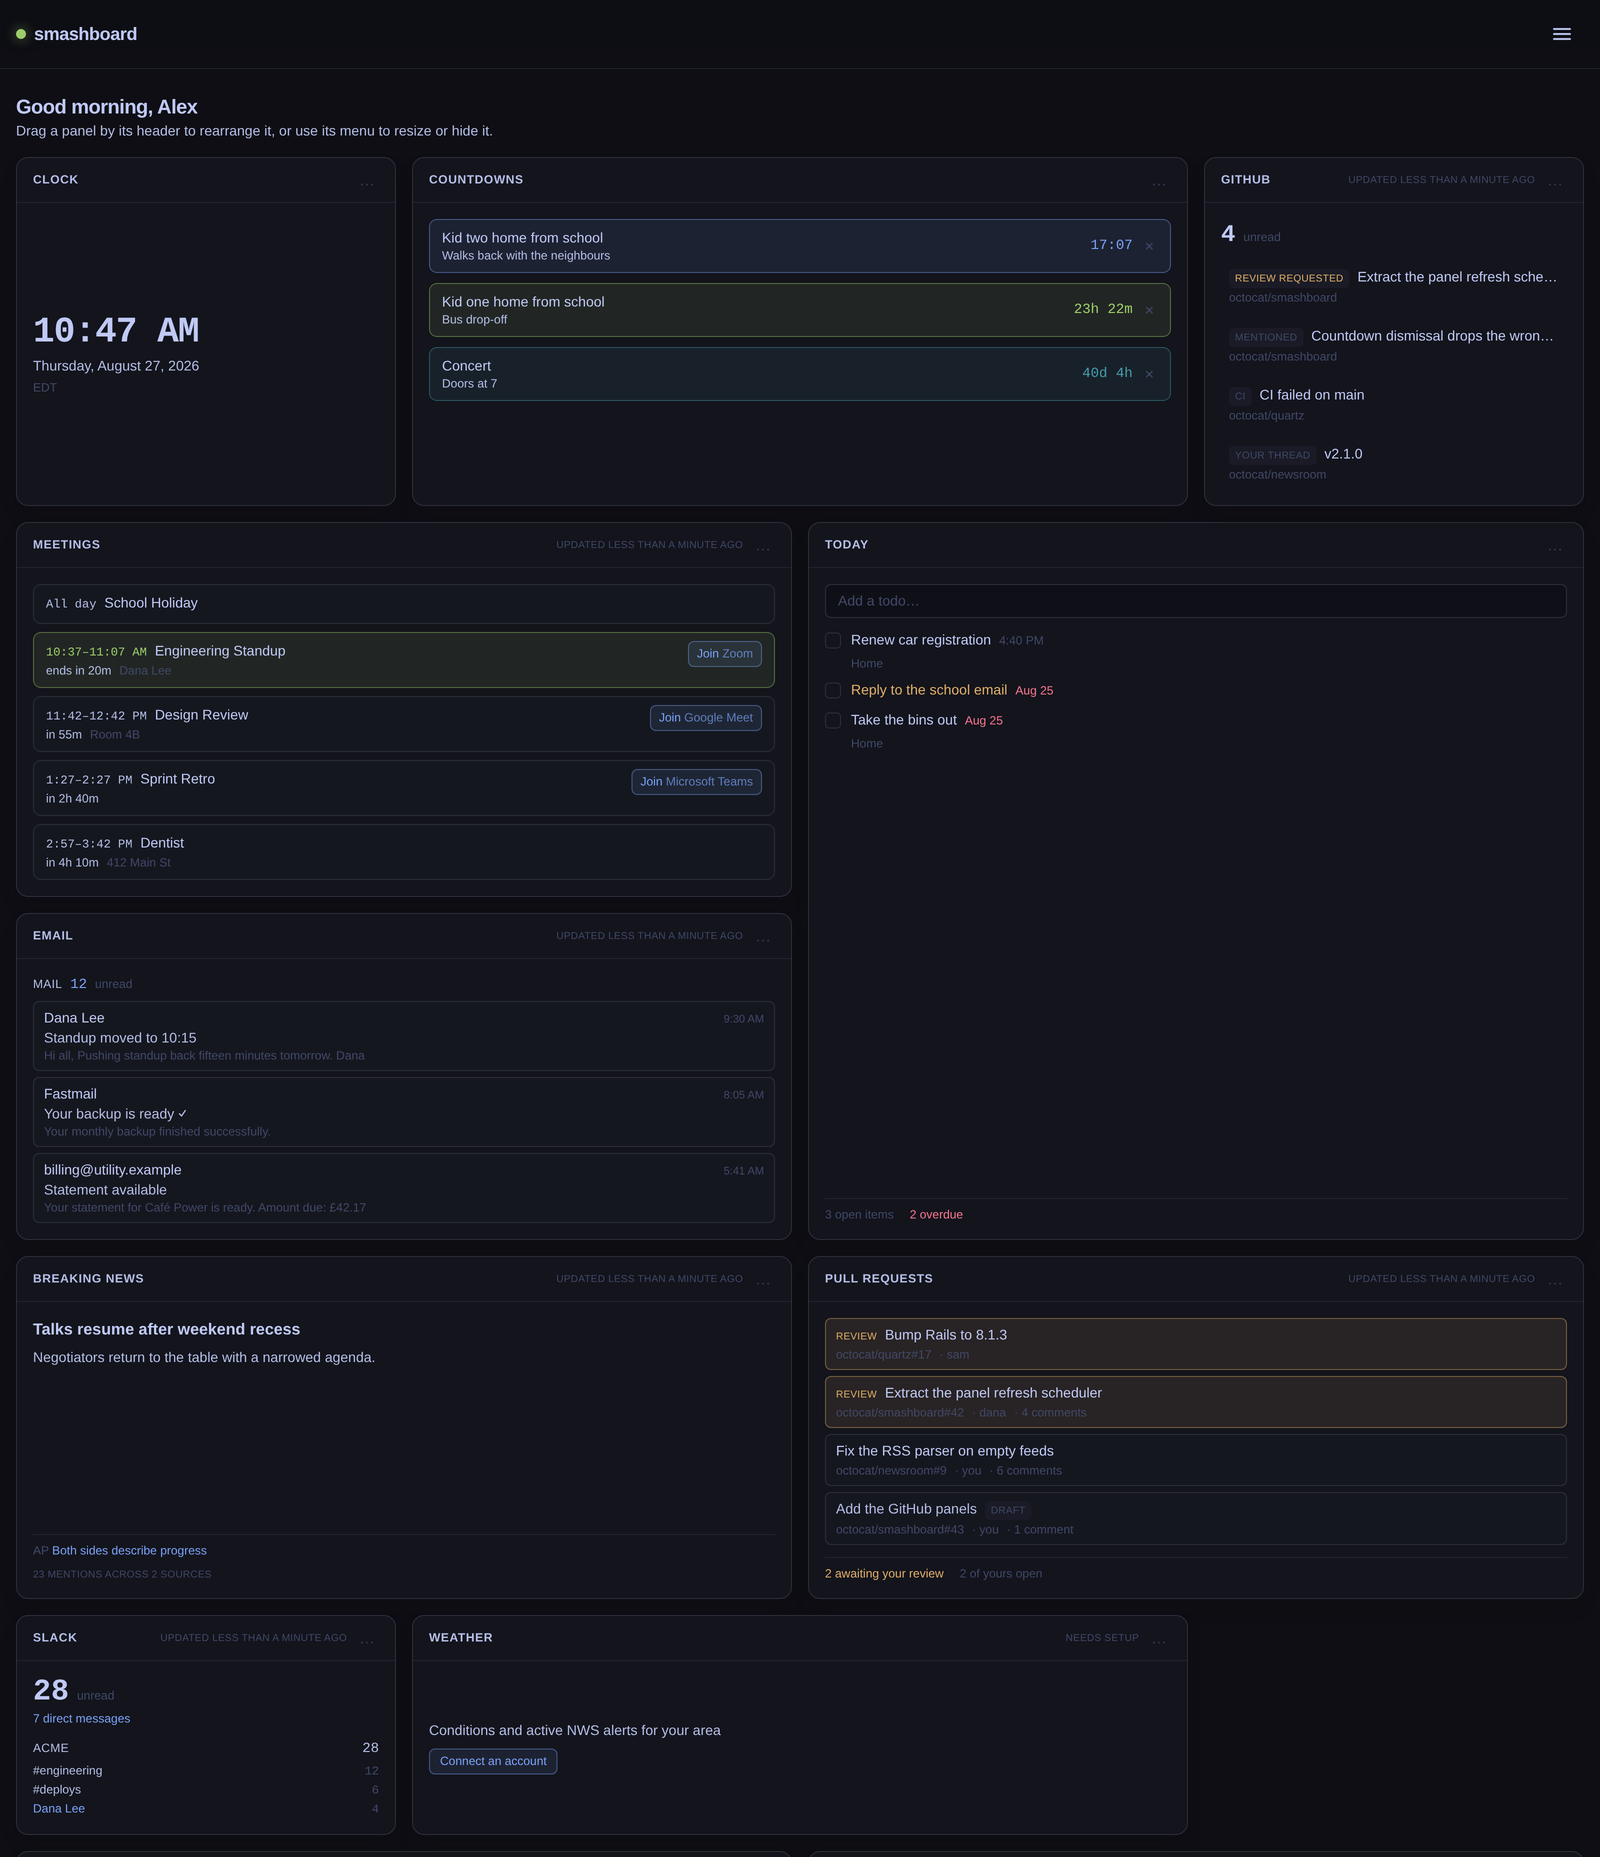
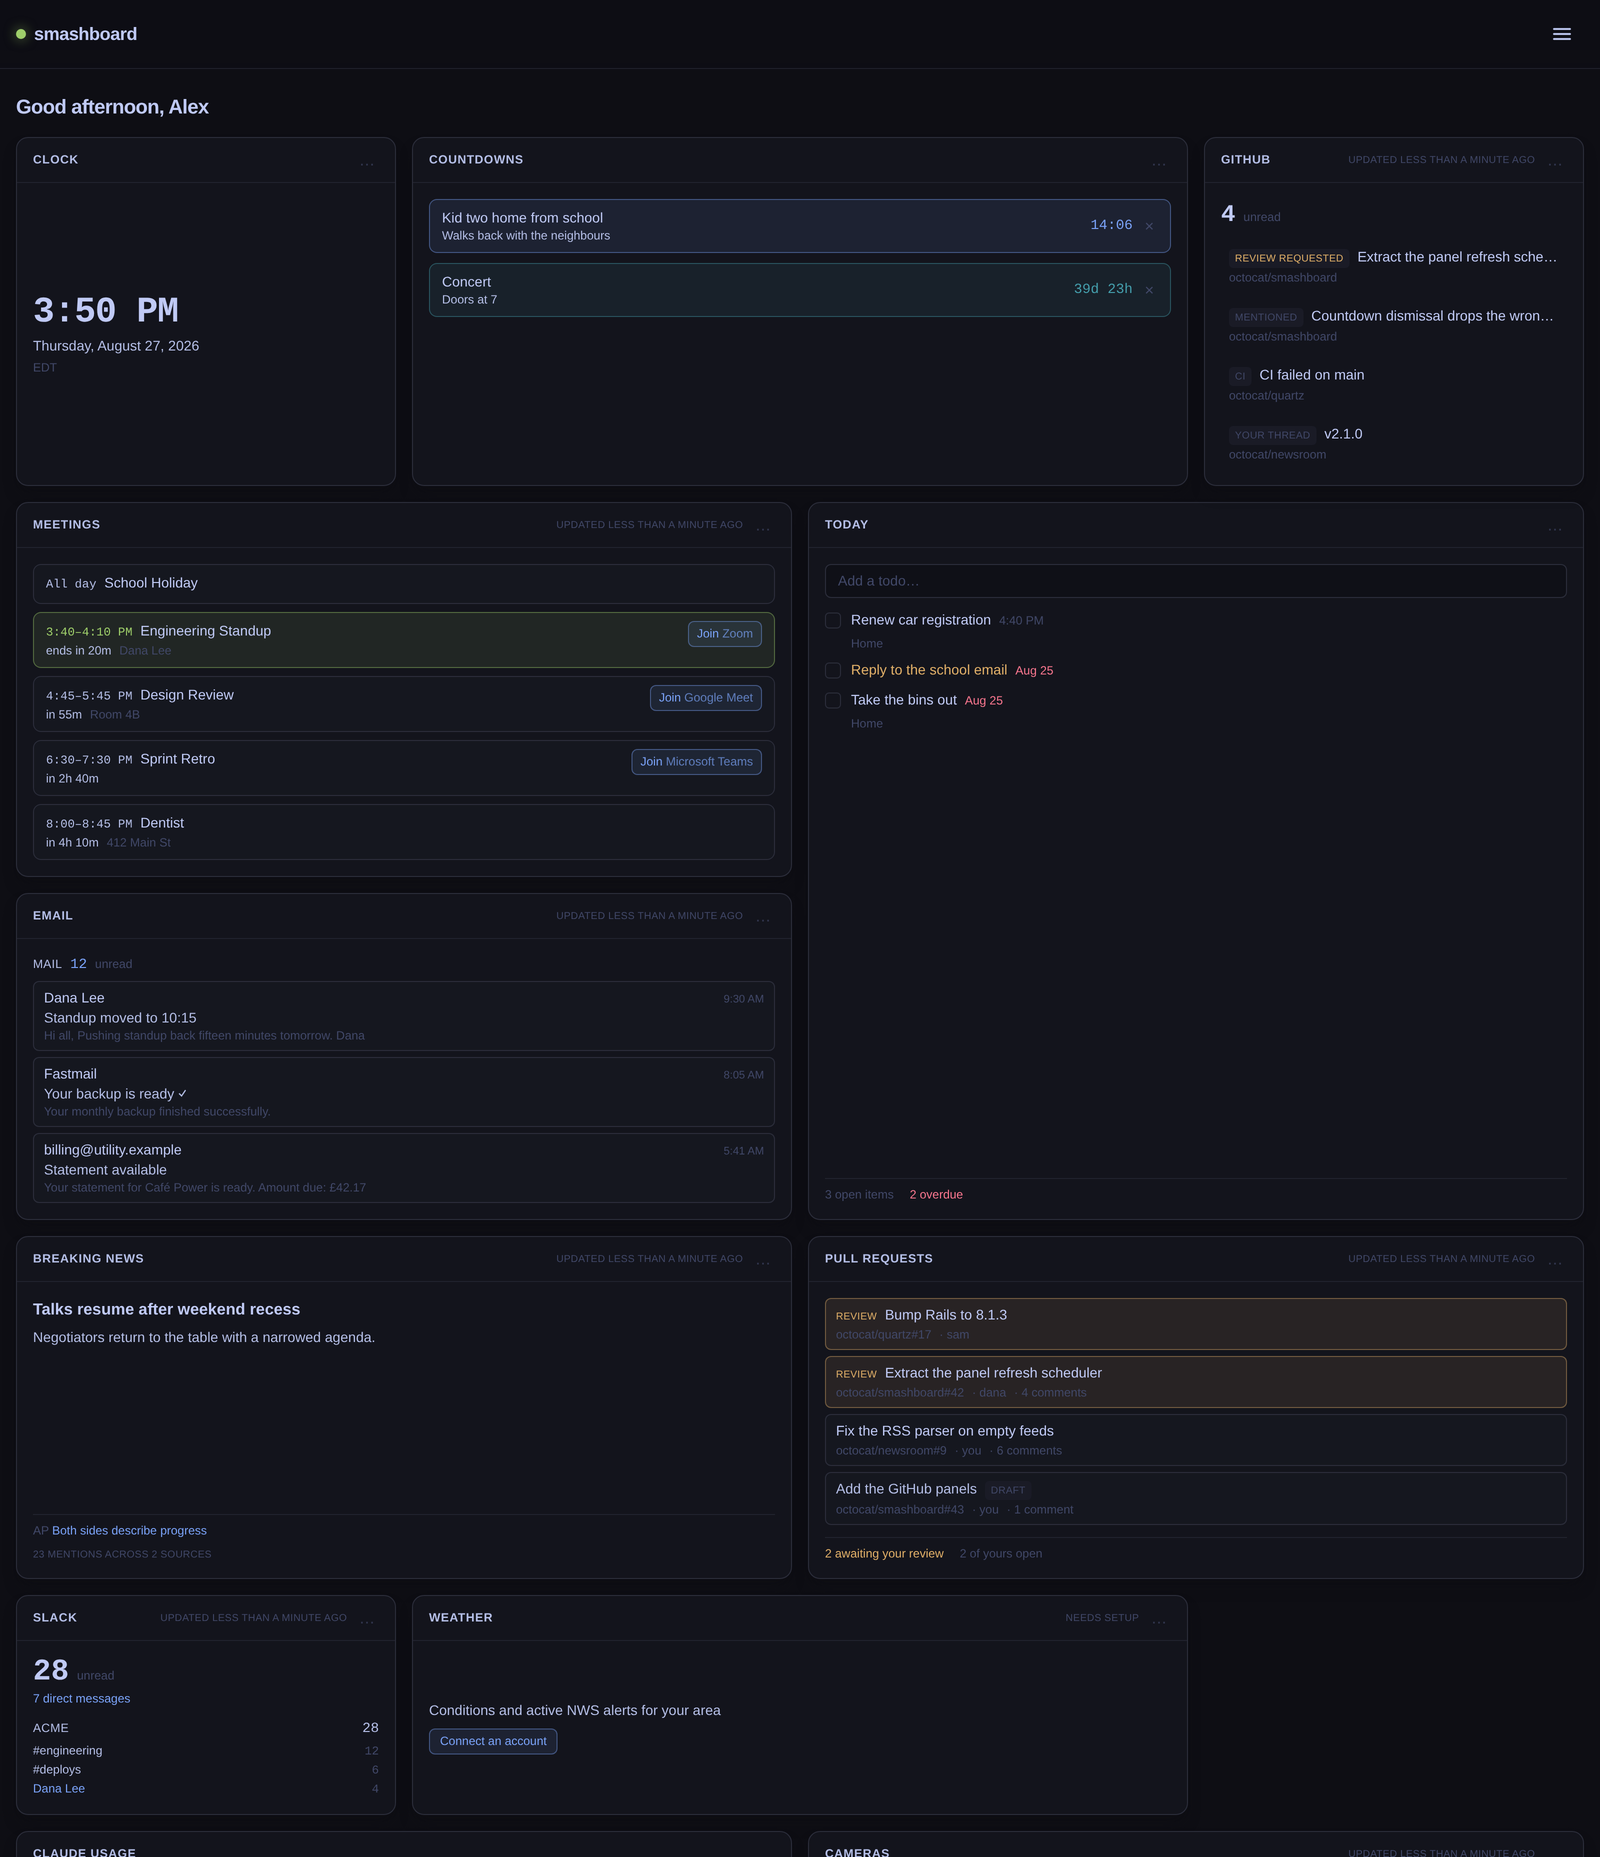
Refresh the hero screenshot, and make the Slack stub healthy by default
The screenshot predated the header subtitle being removed and the same-day rule
for recurring countdowns, so it advertised behaviour the app no longer has.

The uncountable channel added alongside the Slack unread fix is now opt-in
behind SLACK_STUB_UNCOUNTABLE. Shipping it on by default meant the stub's
resting state was a workspace with a "couldn't be counted" warning on it, which
reads as breakage to anyone bringing the stubs up for the first time.

diff --git a/script/slack_stub.rb b/script/slack_stub.rb
@@ -29,14 +29,23 @@ CONVERSATIONS = [
   { id: 'C_ENG', name: 'engineering', unread: 12, raw: 48 },
   { id: 'C_GENERAL', name: 'general', unread: 3, raw: 31 },
   { id: 'C_RANDOM', name: 'random', unread: 0, raw: 17 },
-  { id: 'C_DEPLOYS', name: 'deploys', unread: 6, raw: 6 },
-  # No unread keys at all — what Slack does for a channel when the token lacks
-  # the history scopes. Exercises the "couldn't be counted" path.
-  { id: 'C_SILENT', name: 'silent-channel', unread: nil, raw: nil }
+  { id: 'C_DEPLOYS', name: 'deploys', unread: 6, raw: 6 }
 ].freeze
 
+# Opt-in: a channel Slack answers for but returns no unread keys on, which is
+# what it does when the token lacks the history scopes. Off by default so the
+# stub's normal state is a healthy workspace rather than a warning nobody asked
+# for — set SLACK_STUB_UNCOUNTABLE=1 to exercise the "couldn't be counted" path.
+UNCOUNTABLE = { id: 'C_SILENT', name: 'silent-channel', unread: nil, raw: nil }.freeze
+
+def conversations
+  return CONVERSATIONS unless ENV['SLACK_STUB_UNCOUNTABLE'] == '1'
+
+  CONVERSATIONS + [UNCOUNTABLE]
+end
+
 def listing
-  CONVERSATIONS.map do |conversation|
+  conversations.map do |conversation|
     { id: conversation[:id], name: conversation[:name],
       is_im: conversation[:is_im] || false, is_mpim: conversation[:is_mpim] || false,
       is_channel: !(conversation[:is_im] || conversation[:is_mpim]) }.compact
@@ -44,7 +53,7 @@ def listing
 end
 
 def info_for(id)
-  conversation = CONVERSATIONS.find { |c| c[:id] == id }
+  conversation = conversations.find { |c| c[:id] == id }
   return { ok: false, error: 'channel_not_found' } if conversation.nil?
 
   { ok: true,
